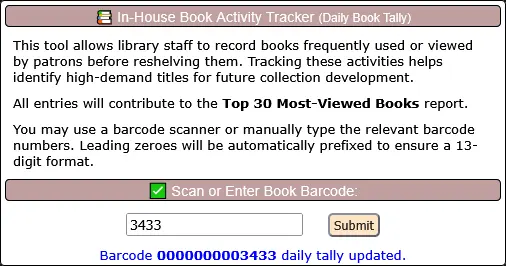
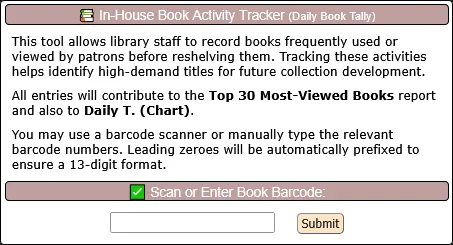
update: README.md

diff --git a/README.md b/README.md
@@ -69,7 +69,7 @@ Before reshelving, staff can use the dedicated **In-House Book Activity Tracker*
 
 ![Homepage](./readme_assets/dailytally.webp "BurauenBiblio Homepage")
 
-By scanning each book’s barcode—either with a scanner or manual entry—the system **automatically logs usage data** without the need for paper-based tallies.
+By scanning each book’s barcode—either with a scanner or manual entry—the system **automatically logs usage data** without the need for paper-based tallies. The tallied books per day also has its graph/chart with JSON export feature.
 
 These analytics provide valuable insights into **reading trends**, **student preferences**, and **subject demand**. They support **data-driven collection development** while helping libraries move toward a **paperless, more efficient workflow**.
 
